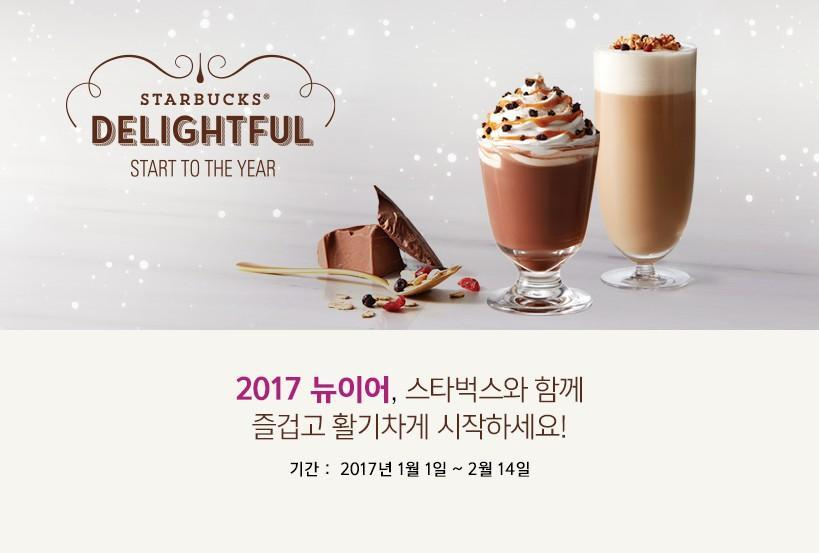
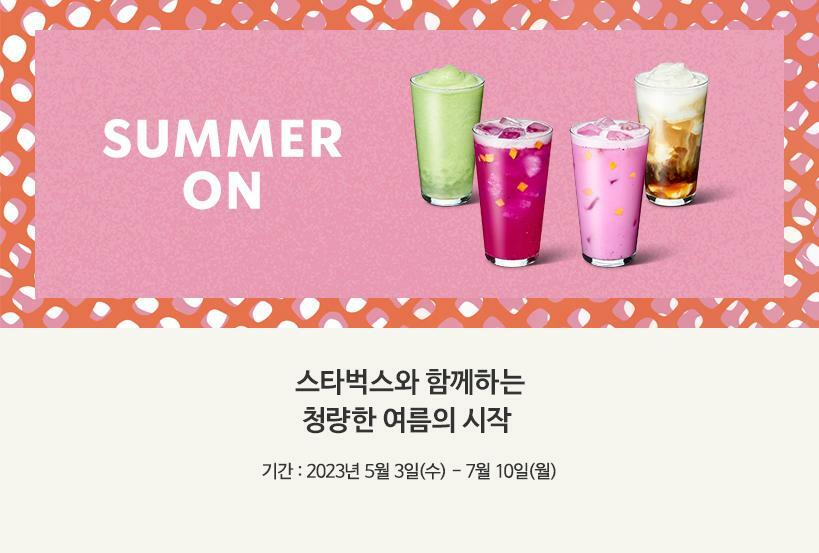
feat: 요소 슬라이드 - 프로모션 이미지 슬라이드

diff --git a/css/main.css b/css/main.css
@@ -391,11 +391,71 @@ header .badges .badge {
 .notice .promotion .swiper {
   width: calc(819px * 3 + 20px);
   height: 553px;
-  background-color: orange;
-  text-align: center;
-  font-size: 200px;
   position: absolute;
   top: 40px;
   left: 50%;
   margin-left: calc((819px * 3 + 20px) / -2);
+}
+.notice .promotion .swiper-slide {
+  opacity: 0.5;
+  transition: opacity 1s;
+  position: relative;
+}
+.notice .promotion .swiper-slide-active {
+  opacity: 1;
+}
+.notice .promotion .swiper-slide .btn {
+  position: absolute;
+  bottom: 0;
+  left: 0;
+  right: 0;
+  margin: auto;
+}
+.notice .promotion .swiper-pagination {
+  bottom: 40px;
+  left: 0;
+  right: 0;
+}
+.notice .promotion .swiper-pagination .swiper-pagination-bullet {
+  background-color: transparent;
+  background-image: url('../images/promotion_slide_pager.png');
+  width: 12px;
+  height: 12px;
+  margin-right: 6px;
+  outline: none;
+}
+.notice .promotion .swiper-pagination .swiper-pagination-bullet:last-chlid {
+  margin-right: 0;
+}
+.notice .promotion .swiper-pagination .swiper-pagination-bullet-active {
+  background-image: url('../images/promotion_slide_pager_on.png');
+}
+.notice .promotion .swiper-button-prev,
+.notice .promotion .swiper-button-next {
+  width: 42px;
+  height: 42px;
+  border: 2px solid #333;
+  border-radius: 50%;
+  position: absolute;
+  top: 300px;
+  z-index: 1;
+  cursor: pointer;
+  outline: none;
+  display: flex;
+  justify-content: center;
+  align-items: center;
+  transition: 0.4s;
+}
+.notice .promotion .swiper-button-prev {
+  left: 50%;
+  margin-left: -480px;
+}
+.notice .promotion .swiper-button-next {
+  right: 50%;
+  margin-right: -480px;
+}
+.notice .promotion .swiper-button-prev:hover,
+.notice .promotion .swiper-button-next:hover {
+  background-color: #333;
+  color: #fff;
 }

diff --git a/index.html b/index.html
@@ -554,11 +554,29 @@
 
       <div class="promotion">
         <div class="swiper">
-          TEST!
           <div class="swiper-wrapper">
-            <div class="swiper-slide"><a href="javascript:void(0)"></a></div>
-            <div class="swiper-slide"><a href="javascript:void(0)"></a></div>
-            <div class="swiper-slide"><a href="javascript:void(0)"></a></div>
+            <div class="swiper-slide">
+              <img src="./images/promotion_slide1.jpg" alt="서머 1 프로모션" />
+              <a href="javascript:void(0)" class="btn">자세히 보기</a>
+            </div>
+            <div class="swiper-slide">
+              <img
+                src="./images/promotion_slide2.jpg"
+                alt="리저브 서머 커피&원두 출시"
+              />
+              <a href="javascript:void(0)" class="btn">자세히 보기</a>
+            </div>
+            <div class="swiper-slide">
+              <img src="./images/promotion_slide3.jpg" alt="만원 별 이벤트" />
+              <a href="javascript:void(0)" class="btn">자세히 보기</a>
+            </div>
+            <div class="swiper-pagination"></div>
+            <div class="swiper-button-prev">
+              <div class="material-icons">arrow_back</div>
+            </div>
+            <div class="swiper-button-next">
+              <div class="material-icons">arrow_forward</div>
+            </div>
           </div>
         </div>
       </div>

diff --git a/js/main.js b/js/main.js
@@ -61,8 +61,26 @@ fadeEls.forEach(function (fadeEl, index) {
 
 /** NOTICE SECTION Swiper */
 // new Swiper(선택자, 옵션)
-const swiper = new Swiper('.notice-line .swiper', {
+new Swiper('.notice-line .swiper', {
   direction: 'vertical',
   autoplay: true,
   loop: true,
+});
+
+new Swiper('.promotion .swiper', {
+  slidesPerView: 3, // 한번에 보여줄 슬라이드 개수
+  spaceBetween: 10, // 슬라이드 사이 여백
+  centeredSlides: true, // 1번 슬라이드가 가운데 보이도록
+  loop: true,
+  autoplay: {
+    delay: 5000, // ms단위, 5초 뒤에 자동으로 넘어가도록
+  },
+  pagination: {
+    el: '.promotion .swiper-pagination', // 페이지 번호 요소 선택자
+    clickable: true, // 사용자의 페이지 번호 요소 제어 가능 여부
+  },
+  navigation: {
+    prevEl: '.promotion .swiper-button-prev', // 이전 슬라이드 보는 버튼
+    nextEl: '.promotion .swiper-button-next', // 다음 슬라이드 보는 버튼
+  },
 });
